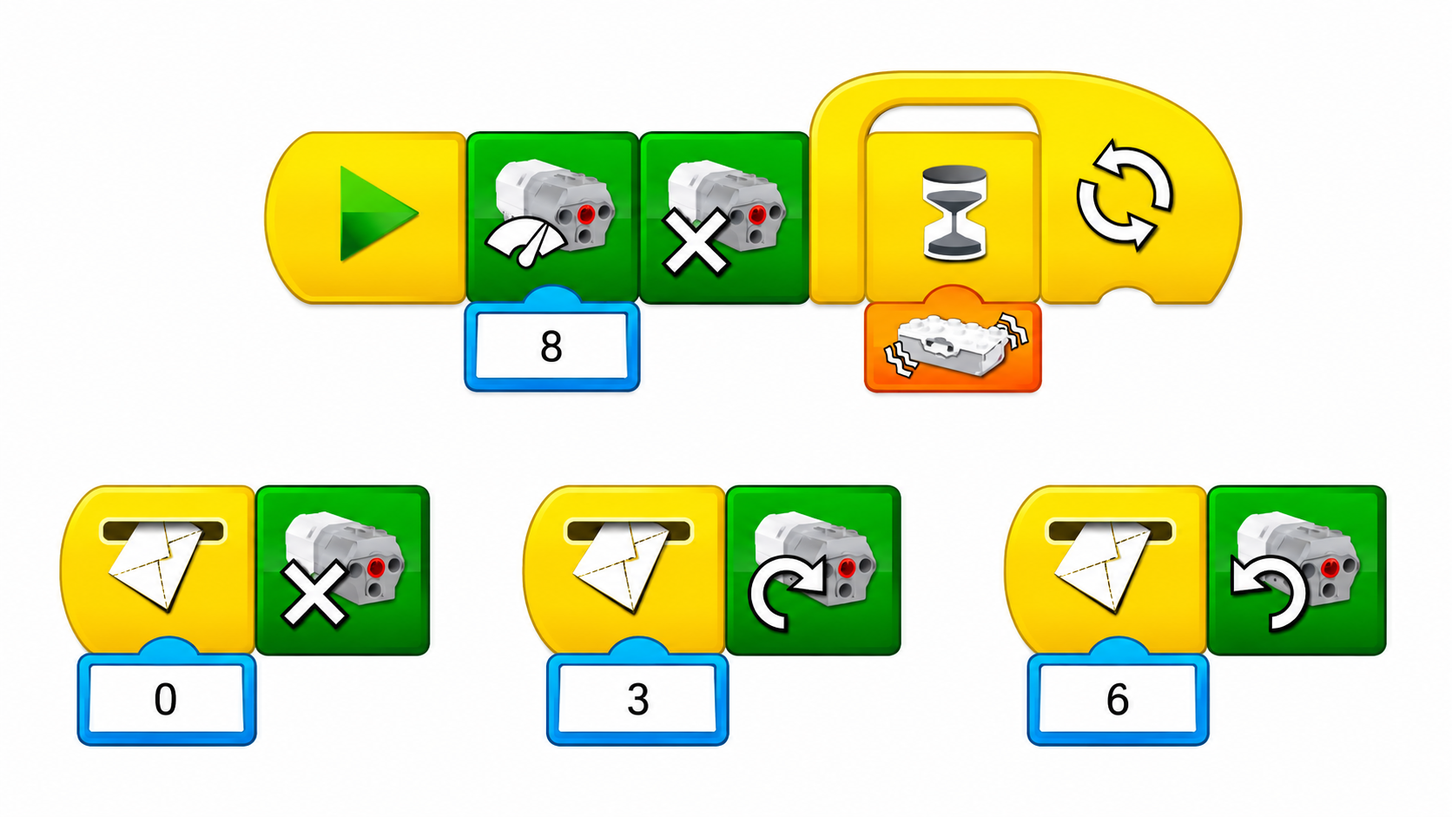
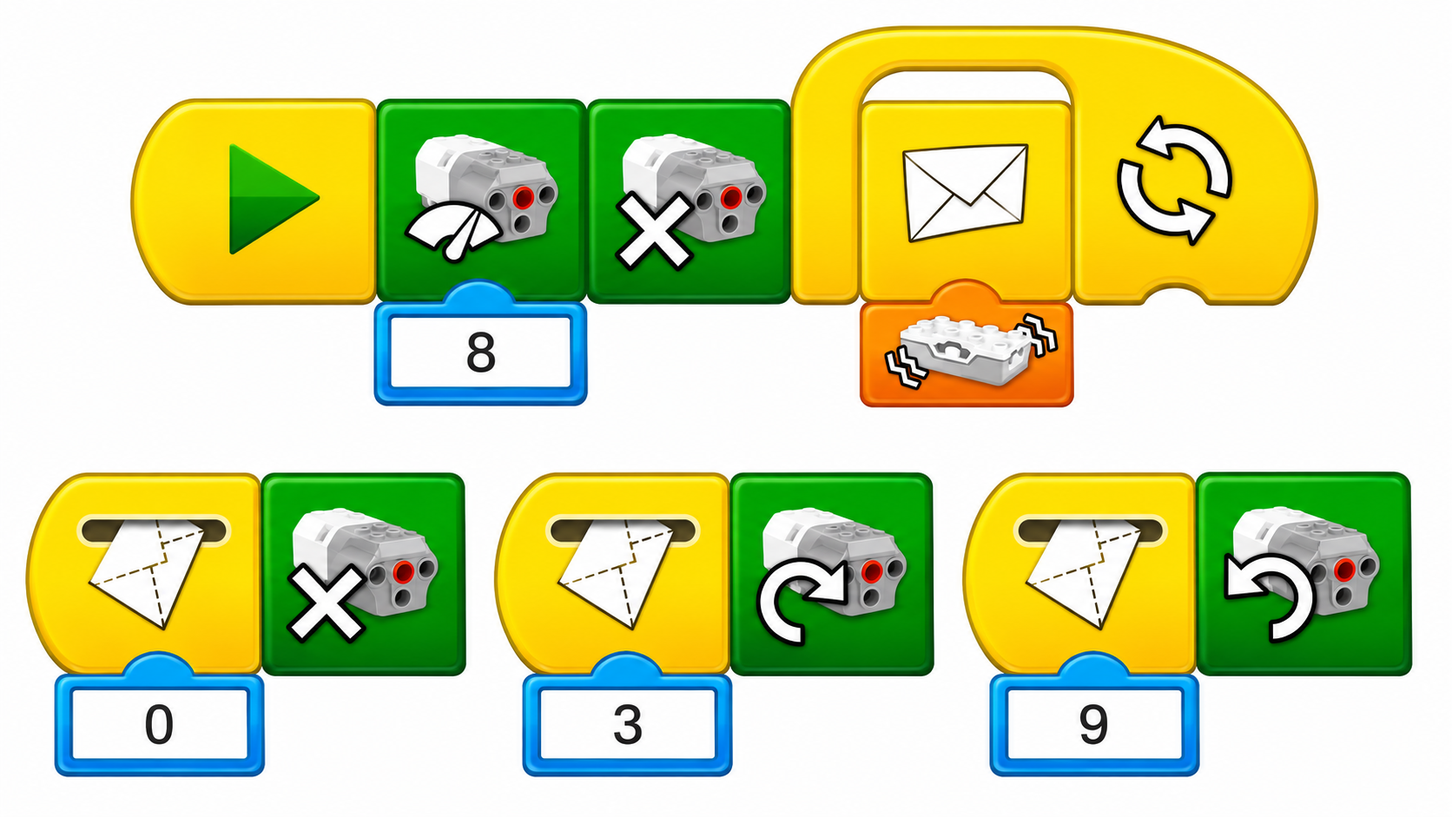
Add files via upload

diff --git a/workshops/2026-2027/11-forklift-2/quiz.html b/workshops/2026-2027/11-forklift-2/quiz.html
@@ -50,13 +50,13 @@ body.quiz-unified.scooter-quiz .head .mascot img{width:100%;height:100%;object-f
 <p class="lead">Αναγνώρισε τις εντολές που χρησιμοποιήσαμε για τον έλεγχο του ανυψωτικού μηχανήματος. Απάντησε σε <strong>10 ερωτήσεις</strong> με τέσσερις εικόνες επιλογών και κέρδισε τη συλλεκτική κάρτα <strong>LEVEL 2</strong>.</p></div>
 <div class="mascot"><img src="cover.webp" alt="Η κατασκευή Ανυψωτικού Μηχανήματος LEGO WeDo 2.0" width="1448" height="1086"></div></section>
 <details class="program"><summary>Δες το πραγματικό πρόγραμμα του Ανυψωτικού Μηχανήματος II</summary>
-<img id="actual-program" src="program.webp" alt="Πρόγραμμα ανυψωτικού μηχανήματος: ισχύς 8, σταμάτημα, αναμονή με αισθητήρα, επανάληψη και μηνύματα 0, 3 και 6"></details>
+<img id="actual-program" src="program.webp?v=20261125-msg9" alt="Πρόγραμμα ανυψωτικού μηχανήματος: ισχύς 8, σταμάτημα, επανάληψη με αποστολή μηνύματος από αισθητήρα κλίσης και μηνύματα 0, 3 και 9"></details>
 <section id="quiz" class="panel" aria-live="polite"><div id="quiz-content"></div></section></main>
 <footer class="footer wrap">EVAGELAK EDU LAB · Εκπαιδευτικό quiz LEGO WeDo 2.0</footer>
 <script src="../../../assets/js/badges.js?v=tier-score-1"></script>
 <script>
 const IMAGES={"start":"quiz-assets/official/start.webp","motor_power":"quiz-assets/official/motor_power.webp","motor_stop":"quiz-assets/official/motor_stop.webp","repeat":"quiz-assets/official/repeat.webp","wait":"quiz-assets/official/wait.webp","sensor_shake":"quiz-assets/official/sensor_shake.webp","sensor_left":"quiz-assets/official/sensor_left.webp","sensor_right":"quiz-assets/official/sensor_right.webp","start_message":"quiz-assets/official/start_message.webp","start_button":"quiz-assets/official/start_button.webp","send":"quiz-assets/official/send.webp","motor_left":"quiz-assets/official/motor_left.webp","motor_right":"quiz-assets/official/motor_right.webp","motor_time":"quiz-assets/official/motor_time.webp","sound":"quiz-assets/official/sound.webp","light":"quiz-assets/official/light.webp","tilt_level":"quiz-assets/official/tilt_level.webp"};
-const QUIZ=[{"kicker":"ΕΝΑΡΞΗ","question":"Ποιο τουβλάκι ξεκινά την κύρια ακολουθία του Ανυψωτικού Μηχανήματος II;","choices":[{"label":"Αναμονή","img":"wait"},{"label":"Ξεκίνημα","img":"start"},{"label":"Ξεκίνημα με μήνυμα","img":"start_message"},{"label":"Επανάληψη","img":"repeat"}],"correct":1,"explain":"Το «Ξεκίνημα» με το πράσινο τρίγωνο ενεργοποιεί την κύρια ακολουθία.","n":1},{"kicker":"ΙΣΧΥΣ ΚΙΝΗΤΗΡΑ","question":"Ποιο τουβλάκι χρησιμοποιούμε για να ρυθμίσουμε την ισχύ του κινητήρα στο 8;","choices":[{"label":"Κίνηση για ορισμένο χρόνο","img":"motor_time"},{"label":"Ισχύς κίνησης","img":"motor_power"},{"label":"Σταμάτημα","img":"motor_stop"},{"label":"Κίνηση προς τα δεξιά","img":"motor_right"}],"correct":1,"explain":"Η «Ισχύς κίνησης» ρυθμίζει την ένταση από 0 έως 10. Στο πρόγραμμα του δεύτερου κλαρκ η τιμή είναι 8.","n":2},{"kicker":"ΑΡΧΙΚΗ ΑΚΟΛΟΥΘΙΑ","question":"Ποια εντολή ακολουθεί αμέσως μετά τη ρύθμιση της ισχύος 8 στην επάνω ακολουθία;","choices":[{"label":"Παίξε ήχο","img":"sound"},{"label":"Κίνηση προς τα αριστερά","img":"motor_left"},{"label":"Σταμάτημα","img":"motor_stop"},{"label":"Αναμονή","img":"wait"}],"correct":2,"explain":"Μετά τη ρύθμιση της ισχύος 8 εμφανίζεται το πράσινο τουβλάκι «Σταμάτημα».","n":3},{"kicker":"ΣΥΝΕΧΗΣ ΕΛΕΓΧΟΣ","question":"Ποιο τουβλάκι οργανώνει την επανάληψη της αναμονής στην επάνω ακολουθία;","choices":[{"label":"Ξεκίνημα","img":"start"},{"label":"Επανάληψη","img":"repeat"},{"label":"Αποστολή μηνύματος","img":"send"},{"label":"Ξεκίνημα με μήνυμα","img":"start_message"}],"correct":1,"explain":"Το κίτρινο τουβλάκι «Επανάληψη» εκτελεί ξανά τις εντολές που περιλαμβάνει.","n":4},{"kicker":"ΑΝΑΜΟΝΗ","question":"Ποιο κίτρινο τουβλάκι χρησιμοποιείται για να περιμένει το πρόγραμμα μια συνθήκη από αισθητήρα;","choices":[{"label":"Αναμονή","img":"wait"},{"label":"Ξεκίνημα με πάτημα κουμπιού","img":"start_button"},{"label":"Επανάληψη","img":"repeat"},{"label":"Ξεκίνημα","img":"start"}],"correct":0,"explain":"Η «Αναμονή» μπορεί να περιμένει μια τιμή ή ένα συμβάν από συνδεδεμένο αισθητήρα.","n":5},{"kicker":"ΑΙΣΘΗΤΗΡΑΣ ΚΛΙΣΗΣ","question":"Ποια πορτοκαλί εικόνα αντιστοιχεί στο σήμα κίνησης πάνω-κάτω που φαίνεται στην αναμονή του προγράμματος;","choices":[{"label":"Κίνηση προς άλλη κατεύθυνση","img":"sensor_left"},{"label":"Κίνηση πάνω-κάτω","img":"sensor_shake"},{"label":"Οριζόντια θέση","img":"tilt_level"},{"label":"Κίνηση προς διαφορετική κατεύθυνση","img":"sensor_right"}],"correct":1,"explain":"Το πορτοκαλί τουβλάκι με τις κυματιστές γραμμές δείχνει κίνηση πάνω-κάτω του αισθητήρα κλίσης.","n":6},{"kicker":"ΜΗΝΥΜΑΤΑ","question":"Με ποιο τουβλάκι αρχίζει κάθε μία από τις τρεις κάτω ακολουθίες με μηνύματα 0, 3 και 6;","choices":[{"label":"Αποστολή μηνύματος","img":"send"},{"label":"Ξεκίνημα","img":"start"},{"label":"Ξεκίνημα με μήνυμα","img":"start_message"},{"label":"Ξεκίνημα με πάτημα κουμπιού","img":"start_button"}],"correct":2,"explain":"Το «Ξεκίνημα με μήνυμα» περιμένει το αντίστοιχο μήνυμα πριν εκτελέσει την εντολή που ακολουθεί.","n":7},{"kicker":"ΜΗΝΥΜΑ 0","question":"Ποια εντολή ενεργοποιείται στο πρόγραμμα όταν φτάσει το μήνυμα 0;","choices":[{"label":"Ισχύς κίνησης","img":"motor_power"},{"label":"Κίνηση προς τα αριστερά","img":"motor_left"},{"label":"Σταμάτημα","img":"motor_stop"},{"label":"Κίνηση προς τα δεξιά","img":"motor_right"}],"correct":2,"explain":"Στην κάτω αριστερή ακολουθία το μήνυμα 0 οδηγεί στην εντολή «Σταμάτημα».","n":8},{"kicker":"ΜΗΝΥΜΑ 3","question":"Ποια εντολή ακολουθεί το μήνυμα 3 στη μεσαία κάτω ακολουθία;","choices":[{"label":"Κίνηση προς τα αριστερά","img":"motor_left"},{"label":"Σταμάτημα","img":"motor_stop"},{"label":"Κίνηση προς τα δεξιά","img":"motor_right"},{"label":"Κίνηση για ορισμένο χρόνο","img":"motor_time"}],"correct":2,"explain":"Στη μεσαία κάτω ακολουθία, μετά το μήνυμα 3, ο κινητήρας παίρνει την κατεύθυνση που δείχνει το τουβλάκι κίνησης προς τα δεξιά.","n":9},{"kicker":"ΜΗΝΥΜΑ 6","question":"Ποια εντολή ακολουθεί το μήνυμα 6 στη δεξιά κάτω ακολουθία;","choices":[{"label":"Κίνηση προς τα αριστερά","img":"motor_left"},{"label":"Ισχύς κίνησης","img":"motor_power"},{"label":"Σταμάτημα","img":"motor_stop"},{"label":"Κίνηση προς τα δεξιά","img":"motor_right"}],"correct":0,"explain":"Στη δεξιά κάτω ακολουθία, μετά το μήνυμα 6, η φορά του κινητήρα αντιστρέφεται με την εντολή κίνησης προς τα αριστερά.","n":10}];
+const QUIZ=[{"kicker":"ΕΝΑΡΞΗ","question":"Ποιο τουβλάκι ξεκινά την κύρια ακολουθία του Ανυψωτικού Μηχανήματος II;","choices":[{"label":"Αναμονή","img":"wait"},{"label":"Ξεκίνημα","img":"start"},{"label":"Ξεκίνημα με μήνυμα","img":"start_message"},{"label":"Επανάληψη","img":"repeat"}],"correct":1,"explain":"Το «Ξεκίνημα» με το πράσινο τρίγωνο ενεργοποιεί την κύρια ακολουθία.","n":1},{"kicker":"ΙΣΧΥΣ ΚΙΝΗΤΗΡΑ","question":"Ποιο τουβλάκι χρησιμοποιούμε για να ρυθμίσουμε την ισχύ του κινητήρα στο 8;","choices":[{"label":"Κίνηση για ορισμένο χρόνο","img":"motor_time"},{"label":"Ισχύς κίνησης","img":"motor_power"},{"label":"Σταμάτημα","img":"motor_stop"},{"label":"Κίνηση προς τα δεξιά","img":"motor_right"}],"correct":1,"explain":"Η «Ισχύς κίνησης» ρυθμίζει την ένταση από 0 έως 10. Στο πρόγραμμα του δεύτερου κλαρκ η τιμή είναι 8.","n":2},{"kicker":"ΑΡΧΙΚΗ ΑΚΟΛΟΥΘΙΑ","question":"Ποια εντολή ακολουθεί αμέσως μετά τη ρύθμιση της ισχύος 8 στην επάνω ακολουθία;","choices":[{"label":"Παίξε ήχο","img":"sound"},{"label":"Κίνηση προς τα αριστερά","img":"motor_left"},{"label":"Σταμάτημα","img":"motor_stop"},{"label":"Αναμονή","img":"wait"}],"correct":2,"explain":"Μετά τη ρύθμιση της ισχύος 8 εμφανίζεται το πράσινο τουβλάκι «Σταμάτημα».","n":3},{"kicker":"ΣΥΝΕΧΗΣ ΕΛΕΓΧΟΣ","question":"Ποιο κίτρινο τουβλάκι επαναλαμβάνει την αποστολή μηνύματος από τον αισθητήρα κλίσης;","choices":[{"label":"Ξεκίνημα","img":"start"},{"label":"Επανάληψη","img":"repeat"},{"label":"Αποστολή μηνύματος","img":"send"},{"label":"Ξεκίνημα με μήνυμα","img":"start_message"}],"correct":1,"explain":"Η «Επανάληψη» εκτελεί συνεχώς το τουβλάκι «Αποστολή μηνύματος» που βρίσκεται μέσα της.","n":4},{"kicker":"ΑΠΟΣΤΟΛΗ ΜΗΝΥΜΑΤΟΣ","question":"Ποιο κίτρινο τουβλάκι βρίσκεται μέσα στην «Επανάληψη» και στέλνει δεδομένα από τον αισθητήρα κλίσης;","choices":[{"label":"Αναμονή","img":"wait"},{"label":"Ξεκίνημα με μήνυμα","img":"start_message"},{"label":"Αποστολή μηνύματος","img":"send"},{"label":"Ξεκίνημα","img":"start"}],"correct":2,"explain":"Το τουβλάκι με τον φάκελο είναι η «Αποστολή μηνύματος». Λαμβάνει ως είσοδο το σήμα του αισθητήρα κλίσης και το στέλνει ως μήνυμα.","n":5},{"kicker":"ΑΙΣΘΗΤΗΡΑΣ ΚΛΙΣΗΣ","question":"Ποιο πορτοκαλί τουβλάκι είναι συνδεδεμένο με την «Αποστολή μηνύματος» μέσα στην επανάληψη;","choices":[{"label":"Κίνηση προς άλλη κατεύθυνση","img":"sensor_left"},{"label":"Κίνηση πάνω-κάτω","img":"sensor_shake"},{"label":"Οριζόντια θέση","img":"tilt_level"},{"label":"Κίνηση προς διαφορετική κατεύθυνση","img":"sensor_right"}],"correct":1,"explain":"Το πορτοκαλί τουβλάκι «Κίνηση πάνω-κάτω» διαβάζει το αντίστοιχο σήμα του αισθητήρα κλίσης και το δίνει στην «Αποστολή μηνύματος».","n":6},{"kicker":"ΜΗΝΥΜΑΤΑ","question":"Με ποιο τουβλάκι ξεκινά καθεμία από τις τρεις κάτω ακολουθίες με μηνύματα 0, 3 και 9;","choices":[{"label":"Αποστολή μηνύματος","img":"send"},{"label":"Ξεκίνημα","img":"start"},{"label":"Ξεκίνημα με μήνυμα","img":"start_message"},{"label":"Ξεκίνημα με πάτημα κουμπιού","img":"start_button"}],"correct":2,"explain":"Το «Ξεκίνημα με μήνυμα» περιμένει το αντίστοιχο μήνυμα πριν εκτελέσει την εντολή που ακολουθεί.","n":7},{"kicker":"ΜΗΝΥΜΑ 0","question":"Ποια εντολή ενεργοποιείται στο πρόγραμμα όταν φτάσει το μήνυμα 0;","choices":[{"label":"Ισχύς κίνησης","img":"motor_power"},{"label":"Κίνηση προς τα αριστερά","img":"motor_left"},{"label":"Σταμάτημα","img":"motor_stop"},{"label":"Κίνηση προς τα δεξιά","img":"motor_right"}],"correct":2,"explain":"Στην κάτω αριστερή ακολουθία το μήνυμα 0 οδηγεί στην εντολή «Σταμάτημα».","n":8},{"kicker":"ΜΗΝΥΜΑ 3","question":"Ποια εντολή ακολουθεί το μήνυμα 3 στη μεσαία κάτω ακολουθία;","choices":[{"label":"Κίνηση προς τα αριστερά","img":"motor_left"},{"label":"Σταμάτημα","img":"motor_stop"},{"label":"Κίνηση προς τα δεξιά","img":"motor_right"},{"label":"Κίνηση για ορισμένο χρόνο","img":"motor_time"}],"correct":2,"explain":"Στη μεσαία κάτω ακολουθία, μετά το μήνυμα 3, ο κινητήρας παίρνει την κατεύθυνση που δείχνει το τουβλάκι κίνησης προς τα δεξιά.","n":9},{"kicker":"ΜΗΝΥΜΑ 9","question":"Ποια εντολή ακολουθεί το μήνυμα 9 στη δεξιά κάτω ακολουθία;","choices":[{"label":"Κίνηση προς τα αριστερά","img":"motor_left"},{"label":"Ισχύς κίνησης","img":"motor_power"},{"label":"Σταμάτημα","img":"motor_stop"},{"label":"Κίνηση προς τα δεξιά","img":"motor_right"}],"correct":0,"explain":"Στη δεξιά κάτω ακολουθία, το μήνυμα 9 ενεργοποιεί το τουβλάκι «Κίνηση προς τα αριστερά».","n":10}];
 let index=0,selected=-1,score=0,finished=false;
 const root=document.getElementById('quiz-content');
 function elem(tag,cls,text){const x=document.createElement(tag);if(cls)x.className=cls;if(text!==undefined)x.textContent=text;return x}

diff --git a/workshops/2026-2027/10-forklift/quiz.html b/workshops/2026-2027/10-forklift/quiz.html
@@ -50,13 +50,13 @@ body.quiz-unified.scooter-quiz .head .mascot img{width:100%;height:100%;object-f
 <p class="lead">Αναγνώρισε τις εντολές που χρησιμοποιήσαμε για τον έλεγχο του ανυψωτικού μηχανήματος. Απάντησε σε <strong>10 ερωτήσεις</strong> με τέσσερις εικόνες επιλογών και κέρδισε τη συλλεκτική κάρτα <strong>LEVEL 2</strong>.</p></div>
 <div class="mascot"><img src="cover.webp" alt="Η κατασκευή Ανυψωτικού Μηχανήματος LEGO WeDo 2.0" width="1448" height="1086"></div></section>
 <details class="program"><summary>Δες το πραγματικό πρόγραμμα του Ανυψωτικό Μηχάνημα</summary>
-<img id="actual-program" src="program.webp" alt="Πρόγραμμα ανυψωτικού μηχανήματος: ισχύς 8, σταμάτημα, αναμονή με αισθητήρα, επανάληψη και μηνύματα 0, 3 και 6"></details>
+<img id="actual-program" src="program.webp?v=20261125-msg9" alt="Πρόγραμμα ανυψωτικού μηχανήματος: ισχύς 8, σταμάτημα, επανάληψη με αποστολή μηνύματος από αισθητήρα κλίσης και μηνύματα 0, 3 και 9"></details>
 <section id="quiz" class="panel" aria-live="polite"><div id="quiz-content"></div></section></main>
 <footer class="footer wrap">EVAGELAK EDU LAB · Εκπαιδευτικό quiz LEGO WeDo 2.0</footer>
 <script src="../../../assets/js/badges.js?v=tier-score-1"></script>
 <script>
 const IMAGES={"start":"quiz-assets/official/start.webp","motor_power":"quiz-assets/official/motor_power.webp","motor_stop":"quiz-assets/official/motor_stop.webp","repeat":"quiz-assets/official/repeat.webp","wait":"quiz-assets/official/wait.webp","sensor_shake":"quiz-assets/official/sensor_shake.webp","sensor_left":"quiz-assets/official/sensor_left.webp","sensor_right":"quiz-assets/official/sensor_right.webp","start_message":"quiz-assets/official/start_message.webp","start_button":"quiz-assets/official/start_button.webp","send":"quiz-assets/official/send.webp","motor_left":"quiz-assets/official/motor_left.webp","motor_right":"quiz-assets/official/motor_right.webp","motor_time":"quiz-assets/official/motor_time.webp","sound":"quiz-assets/official/sound.webp","light":"quiz-assets/official/light.webp","tilt_level":"quiz-assets/official/tilt_level.webp"};
-const QUIZ=[{"kicker":"ΕΝΑΡΞΗ","question":"Ποιο τουβλάκι ξεκινά την κύρια ακολουθία του Ανυψωτικού Μηχανήματος;","choices":[{"label":"Αναμονή","img":"wait"},{"label":"Ξεκίνημα","img":"start"},{"label":"Ξεκίνημα με μήνυμα","img":"start_message"},{"label":"Επανάληψη","img":"repeat"}],"correct":1,"explain":"Το «Ξεκίνημα» με το πράσινο τρίγωνο ενεργοποιεί την κύρια ακολουθία.","n":1},{"kicker":"ΙΣΧΥΣ ΚΙΝΗΤΗΡΑ","question":"Ποιο τουβλάκι χρησιμοποιούμε για να ρυθμίσουμε την ισχύ του κινητήρα στο 8;","choices":[{"label":"Κίνηση για ορισμένο χρόνο","img":"motor_time"},{"label":"Ισχύς κίνησης","img":"motor_power"},{"label":"Σταμάτημα","img":"motor_stop"},{"label":"Κίνηση προς τα δεξιά","img":"motor_right"}],"correct":1,"explain":"Η «Ισχύς κίνησης» ρυθμίζει την ένταση από 0 έως 10. Στο πρόγραμμα του κλαρκ η τιμή είναι 8.","n":2},{"kicker":"ΑΡΧΙΚΗ ΑΚΟΛΟΥΘΙΑ","question":"Ποια εντολή ακολουθεί αμέσως μετά τη ρύθμιση της ισχύος 8 στην επάνω ακολουθία;","choices":[{"label":"Παίξε ήχο","img":"sound"},{"label":"Κίνηση προς τα αριστερά","img":"motor_left"},{"label":"Σταμάτημα","img":"motor_stop"},{"label":"Αναμονή","img":"wait"}],"correct":2,"explain":"Μετά τη ρύθμιση της ισχύος 8 εμφανίζεται το πράσινο τουβλάκι «Σταμάτημα».","n":3},{"kicker":"ΣΥΝΕΧΗΣ ΕΛΕΓΧΟΣ","question":"Ποιο τουβλάκι οργανώνει την επανάληψη της αναμονής στην επάνω ακολουθία;","choices":[{"label":"Ξεκίνημα","img":"start"},{"label":"Επανάληψη","img":"repeat"},{"label":"Αποστολή μηνύματος","img":"send"},{"label":"Ξεκίνημα με μήνυμα","img":"start_message"}],"correct":1,"explain":"Το κίτρινο τουβλάκι «Επανάληψη» εκτελεί ξανά τις εντολές που περιλαμβάνει.","n":4},{"kicker":"ΑΝΑΜΟΝΗ","question":"Ποιο κίτρινο τουβλάκι χρησιμοποιείται για να περιμένει το πρόγραμμα μια συνθήκη από αισθητήρα;","choices":[{"label":"Αναμονή","img":"wait"},{"label":"Ξεκίνημα με πάτημα κουμπιού","img":"start_button"},{"label":"Επανάληψη","img":"repeat"},{"label":"Ξεκίνημα","img":"start"}],"correct":0,"explain":"Η «Αναμονή» μπορεί να περιμένει μια τιμή ή ένα συμβάν από συνδεδεμένο αισθητήρα.","n":5},{"kicker":"ΑΙΣΘΗΤΗΡΑΣ ΚΛΙΣΗΣ","question":"Ποια πορτοκαλί εικόνα αντιστοιχεί στο σήμα κίνησης πάνω-κάτω που φαίνεται στην αναμονή του προγράμματος;","choices":[{"label":"Κίνηση προς άλλη κατεύθυνση","img":"sensor_left"},{"label":"Κίνηση πάνω-κάτω","img":"sensor_shake"},{"label":"Οριζόντια θέση","img":"tilt_level"},{"label":"Κίνηση προς διαφορετική κατεύθυνση","img":"sensor_right"}],"correct":1,"explain":"Το πορτοκαλί τουβλάκι με τις κυματιστές γραμμές δείχνει κίνηση πάνω-κάτω του αισθητήρα κλίσης.","n":6},{"kicker":"ΜΗΝΥΜΑΤΑ","question":"Με ποιο τουβλάκι αρχίζει κάθε μία από τις τρεις κάτω ακολουθίες με μηνύματα 0, 3 και 6;","choices":[{"label":"Αποστολή μηνύματος","img":"send"},{"label":"Ξεκίνημα","img":"start"},{"label":"Ξεκίνημα με μήνυμα","img":"start_message"},{"label":"Ξεκίνημα με πάτημα κουμπιού","img":"start_button"}],"correct":2,"explain":"Το «Ξεκίνημα με μήνυμα» περιμένει το αντίστοιχο μήνυμα πριν εκτελέσει την εντολή που ακολουθεί.","n":7},{"kicker":"ΜΗΝΥΜΑ 0","question":"Ποια εντολή ενεργοποιείται στο πρόγραμμα όταν φτάσει το μήνυμα 0;","choices":[{"label":"Ισχύς κίνησης","img":"motor_power"},{"label":"Κίνηση προς τα αριστερά","img":"motor_left"},{"label":"Σταμάτημα","img":"motor_stop"},{"label":"Κίνηση προς τα δεξιά","img":"motor_right"}],"correct":2,"explain":"Στην κάτω αριστερή ακολουθία το μήνυμα 0 οδηγεί στην εντολή «Σταμάτημα».","n":8},{"kicker":"ΜΗΝΥΜΑ 3","question":"Ποια εντολή ακολουθεί το μήνυμα 3 στη μεσαία κάτω ακολουθία;","choices":[{"label":"Κίνηση προς τα αριστερά","img":"motor_left"},{"label":"Σταμάτημα","img":"motor_stop"},{"label":"Κίνηση προς τα δεξιά","img":"motor_right"},{"label":"Κίνηση για ορισμένο χρόνο","img":"motor_time"}],"correct":2,"explain":"Στη μεσαία κάτω ακολουθία, μετά το μήνυμα 3, ο κινητήρας παίρνει την κατεύθυνση που δείχνει το τουβλάκι κίνησης προς τα δεξιά.","n":9},{"kicker":"ΜΗΝΥΜΑ 6","question":"Ποια εντολή ακολουθεί το μήνυμα 6 στη δεξιά κάτω ακολουθία;","choices":[{"label":"Κίνηση προς τα αριστερά","img":"motor_left"},{"label":"Ισχύς κίνησης","img":"motor_power"},{"label":"Σταμάτημα","img":"motor_stop"},{"label":"Κίνηση προς τα δεξιά","img":"motor_right"}],"correct":0,"explain":"Στη δεξιά κάτω ακολουθία, μετά το μήνυμα 6, η φορά του κινητήρα αντιστρέφεται με την εντολή κίνησης προς τα αριστερά.","n":10}];
+const QUIZ=[{"kicker":"ΕΝΑΡΞΗ","question":"Ποιο τουβλάκι ξεκινά την κύρια ακολουθία του Ανυψωτικού Μηχανήματος;","choices":[{"label":"Αναμονή","img":"wait"},{"label":"Ξεκίνημα","img":"start"},{"label":"Ξεκίνημα με μήνυμα","img":"start_message"},{"label":"Επανάληψη","img":"repeat"}],"correct":1,"explain":"Το «Ξεκίνημα» με το πράσινο τρίγωνο ενεργοποιεί την κύρια ακολουθία.","n":1},{"kicker":"ΙΣΧΥΣ ΚΙΝΗΤΗΡΑ","question":"Ποιο τουβλάκι χρησιμοποιούμε για να ρυθμίσουμε την ισχύ του κινητήρα στο 8;","choices":[{"label":"Κίνηση για ορισμένο χρόνο","img":"motor_time"},{"label":"Ισχύς κίνησης","img":"motor_power"},{"label":"Σταμάτημα","img":"motor_stop"},{"label":"Κίνηση προς τα δεξιά","img":"motor_right"}],"correct":1,"explain":"Η «Ισχύς κίνησης» ρυθμίζει την ένταση από 0 έως 10. Στο πρόγραμμα του κλαρκ η τιμή είναι 8.","n":2},{"kicker":"ΑΡΧΙΚΗ ΑΚΟΛΟΥΘΙΑ","question":"Ποια εντολή ακολουθεί αμέσως μετά τη ρύθμιση της ισχύος 8 στην επάνω ακολουθία;","choices":[{"label":"Παίξε ήχο","img":"sound"},{"label":"Κίνηση προς τα αριστερά","img":"motor_left"},{"label":"Σταμάτημα","img":"motor_stop"},{"label":"Αναμονή","img":"wait"}],"correct":2,"explain":"Μετά τη ρύθμιση της ισχύος 8 εμφανίζεται το πράσινο τουβλάκι «Σταμάτημα».","n":3},{"kicker":"ΣΥΝΕΧΗΣ ΕΛΕΓΧΟΣ","question":"Ποιο κίτρινο τουβλάκι επαναλαμβάνει την αποστολή μηνύματος από τον αισθητήρα κλίσης;","choices":[{"label":"Ξεκίνημα","img":"start"},{"label":"Επανάληψη","img":"repeat"},{"label":"Αποστολή μηνύματος","img":"send"},{"label":"Ξεκίνημα με μήνυμα","img":"start_message"}],"correct":1,"explain":"Η «Επανάληψη» εκτελεί συνεχώς το τουβλάκι «Αποστολή μηνύματος» που βρίσκεται μέσα της.","n":4},{"kicker":"ΑΠΟΣΤΟΛΗ ΜΗΝΥΜΑΤΟΣ","question":"Ποιο κίτρινο τουβλάκι βρίσκεται μέσα στην «Επανάληψη» και στέλνει δεδομένα από τον αισθητήρα κλίσης;","choices":[{"label":"Αναμονή","img":"wait"},{"label":"Ξεκίνημα με μήνυμα","img":"start_message"},{"label":"Αποστολή μηνύματος","img":"send"},{"label":"Ξεκίνημα","img":"start"}],"correct":2,"explain":"Το τουβλάκι με τον φάκελο είναι η «Αποστολή μηνύματος». Λαμβάνει ως είσοδο το σήμα του αισθητήρα κλίσης και το στέλνει ως μήνυμα.","n":5},{"kicker":"ΑΙΣΘΗΤΗΡΑΣ ΚΛΙΣΗΣ","question":"Ποιο πορτοκαλί τουβλάκι είναι συνδεδεμένο με την «Αποστολή μηνύματος» μέσα στην επανάληψη;","choices":[{"label":"Κίνηση προς άλλη κατεύθυνση","img":"sensor_left"},{"label":"Κίνηση πάνω-κάτω","img":"sensor_shake"},{"label":"Οριζόντια θέση","img":"tilt_level"},{"label":"Κίνηση προς διαφορετική κατεύθυνση","img":"sensor_right"}],"correct":1,"explain":"Το πορτοκαλί τουβλάκι «Κίνηση πάνω-κάτω» διαβάζει το αντίστοιχο σήμα του αισθητήρα κλίσης και το δίνει στην «Αποστολή μηνύματος».","n":6},{"kicker":"ΜΗΝΥΜΑΤΑ","question":"Με ποιο τουβλάκι ξεκινά καθεμία από τις τρεις κάτω ακολουθίες με μηνύματα 0, 3 και 9;","choices":[{"label":"Αποστολή μηνύματος","img":"send"},{"label":"Ξεκίνημα","img":"start"},{"label":"Ξεκίνημα με μήνυμα","img":"start_message"},{"label":"Ξεκίνημα με πάτημα κουμπιού","img":"start_button"}],"correct":2,"explain":"Το «Ξεκίνημα με μήνυμα» περιμένει το αντίστοιχο μήνυμα πριν εκτελέσει την εντολή που ακολουθεί.","n":7},{"kicker":"ΜΗΝΥΜΑ 0","question":"Ποια εντολή ενεργοποιείται στο πρόγραμμα όταν φτάσει το μήνυμα 0;","choices":[{"label":"Ισχύς κίνησης","img":"motor_power"},{"label":"Κίνηση προς τα αριστερά","img":"motor_left"},{"label":"Σταμάτημα","img":"motor_stop"},{"label":"Κίνηση προς τα δεξιά","img":"motor_right"}],"correct":2,"explain":"Στην κάτω αριστερή ακολουθία το μήνυμα 0 οδηγεί στην εντολή «Σταμάτημα».","n":8},{"kicker":"ΜΗΝΥΜΑ 3","question":"Ποια εντολή ακολουθεί το μήνυμα 3 στη μεσαία κάτω ακολουθία;","choices":[{"label":"Κίνηση προς τα αριστερά","img":"motor_left"},{"label":"Σταμάτημα","img":"motor_stop"},{"label":"Κίνηση προς τα δεξιά","img":"motor_right"},{"label":"Κίνηση για ορισμένο χρόνο","img":"motor_time"}],"correct":2,"explain":"Στη μεσαία κάτω ακολουθία, μετά το μήνυμα 3, ο κινητήρας παίρνει την κατεύθυνση που δείχνει το τουβλάκι κίνησης προς τα δεξιά.","n":9},{"kicker":"ΜΗΝΥΜΑ 9","question":"Ποια εντολή ακολουθεί το μήνυμα 9 στη δεξιά κάτω ακολουθία;","choices":[{"label":"Κίνηση προς τα αριστερά","img":"motor_left"},{"label":"Ισχύς κίνησης","img":"motor_power"},{"label":"Σταμάτημα","img":"motor_stop"},{"label":"Κίνηση προς τα δεξιά","img":"motor_right"}],"correct":0,"explain":"Στη δεξιά κάτω ακολουθία, το μήνυμα 9 ενεργοποιεί το τουβλάκι «Κίνηση προς τα αριστερά».","n":10}];
 let index=0,selected=-1,score=0,finished=false;
 const root=document.getElementById('quiz-content');
 function elem(tag,cls,text){const x=document.createElement(tag);if(cls)x.className=cls;if(text!==undefined)x.textContent=text;return x}

diff --git a/workshops/2026-2027/10-forklift/index.html b/workshops/2026-2027/10-forklift/index.html
@@ -92,8 +92,8 @@ body[data-equipment~="wedo2"] .ws-kicker::before{background:#20B35D;box-shadow:0
 <main class="ws-page">
 <div class="ws-heading"><div class="ws-kicker">LEGO WeDo 2.0 · 2026–2027</div><h1>Ανυψωτικό Μηχάνημα</h1><p class="ws-intro">Κατασκευάζουμε ένα ανυψωτικό μηχάνημα (κλαρκ) με LEGO WeDo 2.0 και γνωρίζουμε πώς ο κινητήρας, τα γρανάζια, οι εντολές μηνυμάτων και η επανάληψη συνεργάζονται για τον έλεγχο ενός μηχανισμού ανύψωσης.</p></div>
 <figure class="ws-stage"><img alt="Ανυψωτικό Μηχάνημα LEGO WeDo 2.0: περόνες, κατακόρυφος οδηγός, τέσσερις τροχοί, γρανάζια και φιγούρα οδηγού" class="ws-photo" loading="eager" src="cover.webp"/><figcaption><span>Η ΚΑΤΑΣΚΕΥΗ</span><span>LEGO WeDo 2.0</span></figcaption></figure>
-<div class="ws-grid"><section class="ws-card ws-mission"><div class="ws-section-intro"><span aria-hidden="true" class="ws-icon"><svg viewbox="0 0 24 24"><path d="M5 21V4m0 1c3-2 5 2 9 0s6 0 6 0v11c-4-2-6 2-10 0s-5 0-5 0"></path></svg></span><h2>Η αποστολή μας</h2></div><p>Η αποστολή μας είναι να κατασκευάσουμε ένα μικρό ανυψωτικό όχημα με τέσσερις τροχούς και περόνες για τη μεταφορά αντικειμένων. Παρατηρούμε πώς το πλαίσιο, ο κατακόρυφος οδηγός, ο οδοντωτός μηχανισμός και ο ηλεκτρικός κινητήρας συνδυάζονται σε μια πραγματική μηχανική εφαρμογή. Στον προγραμματισμό ρυθμίζουμε την ισχύ του κινητήρα στο 8, αναγνωρίζουμε τη στάση και την επανάληψη και δοκιμάζουμε την ανταπόκριση σε εντολές που ξεκινούν με διαφορετικά μηνύματα. Τα μηνύματα 0, 3 και 6 ενεργοποιούν αντίστοιχα το σταμάτημα και τις δύο αντίθετες κατευθύνσεις περιστροφής. Δοκιμάζουμε τον μηχανισμό με προσοχή και εξηγούμε πώς οι αλλαγές στη φορά του κινητήρα επηρεάζουν την κίνηση των περονών.</p></section><section class="ws-card"><div class="ws-section-intro"><span aria-hidden="true" class="ws-icon"><svg viewbox="0 0 24 24"><circle cx="12" cy="12" r="9"></circle><circle cx="12" cy="12" r="5"></circle><circle cx="12" cy="12" r="1"></circle></svg></span><h2>Τι μάθαμε</h2></div><ul><li><span>Αναγνωρίσαμε τη χρησιμότητα ενός <strong>ανυψωτικού μηχανήματος</strong> για τη μεταφορά φορτίων.</span></li><li><span>Κατασκευάσαμε τροχοφόρο πλαίσιο, περόνες και έναν <strong>κατακόρυφο μηχανισμό</strong> με γρανάζια.</span></li><li><span>Εξερευνήσαμε πώς ο <strong>κινητήρας</strong> δίνει κίνηση στον μηχανισμό ανύψωσης.</span></li><li><span>Ρυθμίσαμε την <strong>ισχύ κίνησης στο 8</strong> και αναγνωρίσαμε την εντολή «Σταμάτημα».</span></li><li><span>Χρησιμοποιήσαμε την εντολή <strong>«Επανάληψη»</strong> μαζί με αναμονή σήματος από αισθητήρα.</span></li><li><span>Μάθαμε πώς λειτουργεί το <strong>«Ξεκίνημα με μήνυμα»</strong> και πώς ενεργοποιεί διαφορετικές ακολουθίες.</span></li><li><span>Συνδέσαμε το <strong>μήνυμα 0</strong> με το σταμάτημα του κινητήρα.</span></li><li><span>Συγκρίναμε τα <strong>μηνύματα 3 και 6</strong>, που ενεργοποιούν αντίθετες κατευθύνσεις περιστροφής.</span></li></ul></section></div>
-<section aria-labelledby="ws-program-title" class="ws-panel"><div class="ws-section-intro"><span aria-hidden="true" class="ws-icon"><svg viewbox="0 0 24 24"><rect height="16" rx="2" width="18" x="3" y="4"></rect><path d="m9 9-3 3 3 3m6-6 3 3-3 3"></path></svg></span><h2 id="ws-program-title">Προγραμματισμός</h2></div><p class="ws-lead">Το αρχικό πρόγραμμα ξεκινά με το «Ξεκίνημα», ορίζει <strong>ισχύ 8</strong> και δίνει εντολή «Σταμάτημα». Σε βρόχο «Επανάληψη» εμφανίζεται εντολή αναμονής με είσοδο από αισθητήρα. Παράλληλα υπάρχουν <strong>τρεις ξεχωριστές ακολουθίες</strong> που ενεργοποιούνται με τα μηνύματα <strong>0, 3 και 6</strong>: σταμάτημα, κίνηση προς τη μία φορά και κίνηση προς την αντίθετη, αντίστοιχα.</p><div class="ws-program-area"><div class="ws-program-label"><i aria-hidden="true"></i> LEGO WeDo 2.0 · ΠΡΟΓΡΑΜΜΑ</div><a aria-label="Προβολή του προγράμματος σε μεγάλο μέγεθος" href="program.webp" rel="noopener noreferrer" target="_blank"><img alt="Πραγματικές εντολές LEGO WeDo 2.0 του κλαρκ: ισχύς 8, σταμάτημα, αναμονή, επανάληψη και τρεις ακολουθίες με μηνύματα 0, 3 και 6" class="ws-program" height="941" loading="eager" src="program.webp" width="1672"/></a></div><a class="ws-program-link" href="program.webp" rel="noopener noreferrer" target="_blank"><svg aria-hidden="true" fill="none" height="18" stroke="currentColor" stroke-width="1.5" viewbox="0 0 20 20" width="18"><circle cx="9" cy="9" r="5"></circle><path d="m13 13 4 4M6 9h6M9 6v6"></path></svg>Μεγέθυνση προγράμματος ↗</a></section>
+<div class="ws-grid"><section class="ws-card ws-mission"><div class="ws-section-intro"><span aria-hidden="true" class="ws-icon"><svg viewbox="0 0 24 24"><path d="M5 21V4m0 1c3-2 5 2 9 0s6 0 6 0v11c-4-2-6 2-10 0s-5 0-5 0"></path></svg></span><h2>Η αποστολή μας</h2></div><p>Η αποστολή μας είναι να κατασκευάσουμε ένα μικρό ανυψωτικό όχημα με τέσσερις τροχούς και περόνες για τη μεταφορά αντικειμένων. Παρατηρούμε πώς το πλαίσιο, ο κατακόρυφος οδηγός, ο οδοντωτός μηχανισμός και ο ηλεκτρικός κινητήρας συνδυάζονται σε μια πραγματική μηχανική εφαρμογή. Στον προγραμματισμό ρυθμίζουμε την ισχύ του κινητήρα στο 8, αναγνωρίζουμε τη στάση και την επανάληψη και δοκιμάζουμε την ανταπόκριση σε εντολές που ξεκινούν με διαφορετικά μηνύματα. Τα μηνύματα 0, 3 και 9 ενεργοποιούν αντίστοιχα το σταμάτημα και τις δύο αντίθετες κατευθύνσεις περιστροφής. Δοκιμάζουμε τον μηχανισμό με προσοχή και εξηγούμε πώς οι αλλαγές στη φορά του κινητήρα επηρεάζουν την κίνηση των περονών.</p></section><section class="ws-card"><div class="ws-section-intro"><span aria-hidden="true" class="ws-icon"><svg viewbox="0 0 24 24"><circle cx="12" cy="12" r="9"></circle><circle cx="12" cy="12" r="5"></circle><circle cx="12" cy="12" r="1"></circle></svg></span><h2>Τι μάθαμε</h2></div><ul><li><span>Αναγνωρίσαμε τη χρησιμότητα ενός <strong>ανυψωτικού μηχανήματος</strong> για τη μεταφορά φορτίων.</span></li><li><span>Κατασκευάσαμε τροχοφόρο πλαίσιο, περόνες και έναν <strong>κατακόρυφο μηχανισμό</strong> με γρανάζια.</span></li><li><span>Εξερευνήσαμε πώς ο <strong>κινητήρας</strong> δίνει κίνηση στον μηχανισμό ανύψωσης.</span></li><li><span>Ρυθμίσαμε την <strong>ισχύ κίνησης στο 8</strong> και αναγνωρίσαμε την εντολή «Σταμάτημα».</span></li><li><span>Χρησιμοποιήσαμε την <strong>«Επανάληψη»</strong> και την <strong>«Αποστολή μηνύματος»</strong> με δεδομένα από τον αισθητήρα κλίσης.</span></li><li><span>Μάθαμε πώς λειτουργεί το <strong>«Ξεκίνημα με μήνυμα»</strong> και πώς ενεργοποιεί διαφορετικές ακολουθίες.</span></li><li><span>Συνδέσαμε το <strong>μήνυμα 0</strong> με το σταμάτημα του κινητήρα.</span></li><li><span>Συγκρίναμε τα <strong>μηνύματα 3 και 9</strong>, που ενεργοποιούν αντίθετες κατευθύνσεις περιστροφής.</span></li></ul></section></div>
+<section aria-labelledby="ws-program-title" class="ws-panel"><div class="ws-section-intro"><span aria-hidden="true" class="ws-icon"><svg viewbox="0 0 24 24"><rect height="16" rx="2" width="18" x="3" y="4"></rect><path d="m9 9-3 3 3 3m6-6 3 3-3 3"></path></svg></span><h2 id="ws-program-title">Προγραμματισμός</h2></div><p class="ws-lead">Το αρχικό πρόγραμμα ξεκινά με το «Ξεκίνημα», ορίζει <strong>ισχύ 8</strong> και δίνει εντολή «Σταμάτημα». Μέσα στην «Επανάληψη» βρίσκεται η «Αποστολή μηνύματος», που χρησιμοποιεί την είσοδο «Κίνηση πάνω-κάτω» του αισθητήρα κλίσης. Παράλληλα υπάρχουν <strong>τρεις ξεχωριστές ακολουθίες</strong> που ενεργοποιούνται με τα μηνύματα <strong>0, 3 και 9</strong>: σταμάτημα, κίνηση προς τη μία φορά και κίνηση προς την αντίθετη, αντίστοιχα.</p><div class="ws-program-area"><div class="ws-program-label"><i aria-hidden="true"></i> LEGO WeDo 2.0 · ΠΡΟΓΡΑΜΜΑ</div><a aria-label="Προβολή του προγράμματος σε μεγάλο μέγεθος" href="program.webp?v=20261125-msg9" rel="noopener noreferrer" target="_blank"><img alt="Πραγματικές εντολές LEGO WeDo 2.0 του κλαρκ: ισχύς 8, σταμάτημα, επανάληψη με αποστολή μηνύματος από αισθητήρα κλίσης και τρεις ακολουθίες με μηνύματα 0, 3 και 9" class="ws-program" height="941" loading="eager" src="program.webp?v=20261125-msg9" width="1672"/></a></div><a class="ws-program-link" href="program.webp?v=20261125-msg9" rel="noopener noreferrer" target="_blank"><svg aria-hidden="true" fill="none" height="18" stroke="currentColor" stroke-width="1.5" viewbox="0 0 20 20" width="18"><circle cx="9" cy="9" r="5"></circle><path d="m13 13 4 4M6 9h6M9 6v6"></path></svg>Μεγέθυνση προγράμματος ↗</a></section>
 <section aria-labelledby="ws-materials-title" class="ws-panel ws-materials"><div class="ws-section-intro"><span aria-hidden="true" class="ws-icon"><svg viewbox="0 0 24 24"><path d="M3 7a2 2 0 0 1 2-2h5l2 2h7a2 2 0 0 1 2 2v10H3z"></path></svg></span><h2 id="ws-materials-title">Υλικό εργαστηρίου</h2></div><p class="ws-lead">Βίντεο οδηγιών συναρμολόγησης και πληροφορίες για βίντεο παρουσίασης.</p><div class="ws-material-grid"><article class="ws-material ws-video"><div class="ws-material-head"><span aria-hidden="true" class="ws-material-icon"><svg viewbox="0 0 24 24"><path d="M6 3h8l4 4v14H6z"></path><path d="M14 3v5h5M9 12h6M9 16h6"></path></svg></span><h3>Οδηγίες κατασκευής (YouTube)</h3></div><p>Δες τις οδηγίες κατασκευής του κλαρκ σε βίντεο. Για πρόσβαση θα χρειαστείς τον κωδικό του εργαστηρίου.</p><button class="ws-action ws-video-unlock" id="forklift-instructions-open" type="button" aria-haspopup="dialog" aria-controls="forklift-instructions-lock"><svg aria-hidden="true" fill="none" height="18" stroke="currentColor" stroke-width="1.7" viewbox="0 0 24 24" width="18"><rect x="5" y="10" width="14" height="11" rx="2"></rect><path d="M8 10V7a4 4 0 0 1 8 0v3"></path></svg>Δες τις οδηγίες στο YouTube</button></article><article class="ws-material ws-video"><div class="ws-material-head"><span aria-hidden="true" class="ws-material-icon"><svg viewbox="0 0 24 24"><circle cx="12" cy="12" r="9"></circle><path d="m10 8 6 4-6 4z"></path></svg></span><h3>Βίντεο παρουσίασης</h3></div><p>Δες το Ανυψωτικό Μηχάνημα στο βίντεο παρουσίασης.</p><div class="ws-presentation-video"><iframe src="https://www.youtube-nocookie.com/embed/GYkSkYtcJts" title="Βίντεο παρουσίασης — Ανυψωτικό Μηχάνημα" loading="lazy" referrerpolicy="strict-origin-when-cross-origin" allow="accelerometer; autoplay; clipboard-write; encrypted-media; gyroscope; picture-in-picture; web-share" allowfullscreen></iframe></div><a class="ws-action" href="https://www.youtube.com/shorts/GYkSkYtcJts" target="_blank" rel="noopener noreferrer">Άνοιγμα στο YouTube ↗</a></article></div></section>
 <dialog class="ws-video-lock" id="forklift-instructions-lock" aria-labelledby="forklift-lock-title" aria-describedby="forklift-lock-help">
   <form id="forklift-lock-form" class="ws-video-lock-form" novalidate>

diff --git a/workshops/2026-2027/11-forklift-2/index.html b/workshops/2026-2027/11-forklift-2/index.html
@@ -85,10 +85,10 @@ body[data-equipment~="wedo2"] .ws-kicker::before{background:#20B35D;box-shadow:0
 <div class="ws-wrap">
 <header class="ws-topbar"><div class="ws-brand">EVAGELAK <b>EDU LAB</b></div><a class="ws-back" href="../../../index.html#workshops">← Όλες οι κατασκευές</a></header>
 <main class="ws-page">
-<div class="ws-heading"><div class="ws-kicker">LEGO WeDo 2.0 · 2026–2027</div><h1>Ανυψωτικό Μηχάνημα II</h1><p class="ws-intro">Η δεύτερη εκδοχή του κλαρκ στο EVAGELAK EDU LAB! Κατασκευάζουμε ένα ανυψωτικό μηχάνημα LEGO WeDo 2.0 που αξιοποιεί βραχίονες, γρανάζια και κινητήρα. Με τον προγραμματισμό δοκιμάζουμε αντίθετες φορές περιστροφής, αναμονή σήματος αισθητήρα και τρεις εντολές που ενεργοποιούνται με μηνύματα.</p></div>
+<div class="ws-heading"><div class="ws-kicker">LEGO WeDo 2.0 · 2026–2027</div><h1>Ανυψωτικό Μηχάνημα II</h1><p class="ws-intro">Η δεύτερη εκδοχή του κλαρκ στο EVAGELAK EDU LAB! Κατασκευάζουμε ένα ανυψωτικό μηχάνημα LEGO WeDo 2.0 που αξιοποιεί βραχίονες, γρανάζια και κινητήρα. Με τον προγραμματισμό δοκιμάζουμε αντίθετες φορές περιστροφής, αποστολή μηνυμάτων από τον αισθητήρα κλίσης και τρεις ακολουθίες που ενεργοποιούνται με μηνύματα.</p></div>
 <figure class="ws-stage"><img alt="Ανυψωτικό Μηχάνημα II LEGO WeDo 2.0, ανυψωτικός βραχίονας με δύο τροχούς ως φορτίο, κινητήρας, γρανάζια και αισθητήρας κλίσης" class="ws-photo" loading="eager" src="cover.webp"/><figcaption><span>Η ΚΑΤΑΣΚΕΥΗ</span><span>LEGO WeDo 2.0</span></figcaption></figure>
-<div class="ws-grid"><section class="ws-card ws-mission"><div class="ws-section-intro"><span aria-hidden="true" class="ws-icon"><svg viewbox="0 0 24 24"><path d="M5 21V4m0 1c3-2 5 2 9 0s6 0 6 0v11c-4-2-6 2-10 0s-5 0-5 0"></path></svg></span><h2>Η αποστολή μας</h2></div><p>Στη δεύτερη αποστολή μας κατασκευάζουμε ένα ανυψωτικό όχημα με βραχίονες που συγκρατούν ένα φορτίο. Παρατηρούμε τον συνδυασμό δοκών, οδοντωτών τροχών και κινητήρα, ώστε να κατανοήσουμε πώς η περιστροφή μεταδίδεται στον μηχανισμό. Στο πρόγραμμα ρυθμίζουμε την ισχύ του κινητήρα στο 8 και τον σταματάμε. Χρησιμοποιούμε επανάληψη με αναμονή σήματος κίνησης του αισθητήρα κλίσης. Τρεις ανεξάρτητες ακολουθίες ενεργοποιούνται όταν φτάσουν τα μηνύματα 0, 3 και 6: σταμάτημα, περιστροφή προς τη μία φορά και περιστροφή προς την αντίθετη. Δοκιμάζουμε τι συμβαίνει κάθε φορά στον μηχανισμό και πώς μπορούμε να τον ελέγχουμε με ακρίβεια.</p></section><section class="ws-card"><div class="ws-section-intro"><span aria-hidden="true" class="ws-icon"><svg viewbox="0 0 24 24"><circle cx="12" cy="12" r="9"></circle><circle cx="12" cy="12" r="5"></circle><circle cx="12" cy="12" r="1"></circle></svg></span><h2>Τι μάθαμε</h2></div><ul><li><span>Διακρίναμε το ανυψωτικό όχημα από το φορτίο που μεταφέρει και παρατηρήσαμε τις περόνες του.</span></li><li><span>Συνδυάσαμε δοκούς, άξονες και γρανάζια για να φτιάξουμε έναν μηχανισμό ανύψωσης.</span></li><li><span>Είδαμε πώς ο κινητήρας μεταδίδει την περιστροφή σε έναν μηχανισμό.</span></li><li><span>Ρυθμίσαμε την ισχύ του κινητήρα στο 8 και χρησιμοποιήσαμε την εντολή «Σταμάτημα».</span></li><li><span>Αναγνωρίσαμε την «Επανάληψη» και την «Αναμονή» με σήμα από αισθητήρα κλίσης.</span></li><li><span>Διακρίναμε τις ακολουθίες «Ξεκίνημα» και «Ξεκίνημα με μήνυμα».</span></li><li><span>Συνδέσαμε το μήνυμα 0 με το σταμάτημα του κινητήρα.</span></li><li><span>Δοκιμάσαμε τα μηνύματα 3 και 6 για αντίθετες κατευθύνσεις περιστροφής.</span></li></ul></section></div>
-<section aria-labelledby="ws-program-title" class="ws-panel"><div class="ws-section-intro"><span aria-hidden="true" class="ws-icon"><svg viewbox="0 0 24 24"><rect height="16" rx="2" width="18" x="3" y="4"></rect><path d="m9 9-3 3 3 3m6-6 3 3-3 3"></path></svg></span><h2 id="ws-program-title">Προγραμματισμός</h2></div><p class="ws-lead">Η αρχική ακολουθία ορίζει <strong>ισχύ 8</strong> και δίνει εντολή σταματήματος. Μέσα στην <strong>«Επανάληψη»</strong> περιμένει σήμα από τον αισθητήρα κλίσης. Κάτω από αυτήν υπάρχουν τρεις διαφορετικές ακολουθίες: <strong>μήνυμα 0 → Σταμάτημα</strong>, <strong>μήνυμα 3 → περιστροφή δεξιά</strong> και <strong>μήνυμα 6 → περιστροφή αριστερά</strong>.</p><div class="ws-program-area"><div class="ws-program-label"><i aria-hidden="true"></i> LEGO WeDo 2.0 · ΠΡΟΓΡΑΜΜΑ</div><a aria-label="Προβολή του προγράμματος σε μεγάλο μέγεθος" href="program.webp" rel="noopener noreferrer" target="_blank"><img alt="Πραγματικό πρόγραμμα LEGO WeDo 2.0: ισχύς 8, σταμάτημα, επανάληψη με αναμονή αισθητήρα και εντολές μηνυμάτων 0, 3, 6" class="ws-program" height="941" loading="eager" src="program.webp" width="1672"/></a></div><a class="ws-program-link" href="program.webp" rel="noopener noreferrer" target="_blank"><svg aria-hidden="true" fill="none" height="18" stroke="currentColor" stroke-width="1.5" viewbox="0 0 20 20" width="18"><circle cx="9" cy="9" r="5"></circle><path d="m13 13 4 4M6 9h6M9 6v6"></path></svg>Μεγέθυνση προγράμματος ↗</a></section>
+<div class="ws-grid"><section class="ws-card ws-mission"><div class="ws-section-intro"><span aria-hidden="true" class="ws-icon"><svg viewbox="0 0 24 24"><path d="M5 21V4m0 1c3-2 5 2 9 0s6 0 6 0v11c-4-2-6 2-10 0s-5 0-5 0"></path></svg></span><h2>Η αποστολή μας</h2></div><p>Στη δεύτερη αποστολή μας κατασκευάζουμε ένα ανυψωτικό όχημα με βραχίονες που συγκρατούν ένα φορτίο. Παρατηρούμε τον συνδυασμό δοκών, οδοντωτών τροχών και κινητήρα, ώστε να κατανοήσουμε πώς η περιστροφή μεταδίδεται στον μηχανισμό. Στο πρόγραμμα ρυθμίζουμε την ισχύ του κινητήρα στο 8 και τον σταματάμε. Μέσα στην επανάληψη στέλνουμε μήνυμα με είσοδο την «Κίνηση πάνω-κάτω» του αισθητήρα κλίσης. Τρεις ανεξάρτητες ακολουθίες ενεργοποιούνται όταν φτάσουν τα μηνύματα 0, 3 και 9: σταμάτημα, περιστροφή προς τη μία φορά και περιστροφή προς την αντίθετη. Δοκιμάζουμε τι συμβαίνει κάθε φορά στον μηχανισμό και πώς μπορούμε να τον ελέγχουμε με ακρίβεια.</p></section><section class="ws-card"><div class="ws-section-intro"><span aria-hidden="true" class="ws-icon"><svg viewbox="0 0 24 24"><circle cx="12" cy="12" r="9"></circle><circle cx="12" cy="12" r="5"></circle><circle cx="12" cy="12" r="1"></circle></svg></span><h2>Τι μάθαμε</h2></div><ul><li><span>Διακρίναμε το ανυψωτικό όχημα από το φορτίο που μεταφέρει και παρατηρήσαμε τις περόνες του.</span></li><li><span>Συνδυάσαμε δοκούς, άξονες και γρανάζια για να φτιάξουμε έναν μηχανισμό ανύψωσης.</span></li><li><span>Είδαμε πώς ο κινητήρας μεταδίδει την περιστροφή σε έναν μηχανισμό.</span></li><li><span>Ρυθμίσαμε την ισχύ του κινητήρα στο 8 και χρησιμοποιήσαμε την εντολή «Σταμάτημα».</span></li><li><span>Αναγνωρίσαμε την «Επανάληψη» και την «Αποστολή μηνύματος» με είσοδο από τον αισθητήρα κλίσης.</span></li><li><span>Διακρίναμε τις ακολουθίες «Ξεκίνημα» και «Ξεκίνημα με μήνυμα».</span></li><li><span>Συνδέσαμε το μήνυμα 0 με το σταμάτημα του κινητήρα.</span></li><li><span>Δοκιμάσαμε τα μηνύματα 3 και 9 για αντίθετες κατευθύνσεις περιστροφής.</span></li></ul></section></div>
+<section aria-labelledby="ws-program-title" class="ws-panel"><div class="ws-section-intro"><span aria-hidden="true" class="ws-icon"><svg viewbox="0 0 24 24"><rect height="16" rx="2" width="18" x="3" y="4"></rect><path d="m9 9-3 3 3 3m6-6 3 3-3 3"></path></svg></span><h2 id="ws-program-title">Προγραμματισμός</h2></div><p class="ws-lead">Η αρχική ακολουθία ορίζει <strong>ισχύ 8</strong> και δίνει εντολή σταματήματος. Μέσα στην <strong>«Επανάληψη»</strong> η <strong>«Αποστολή μηνύματος»</strong> μεταφέρει δεδομένα από τον αισθητήρα κλίσης («Κίνηση πάνω-κάτω»). Κάτω από αυτήν υπάρχουν τρεις διαφορετικές ακολουθίες: <strong>μήνυμα 0 → Σταμάτημα</strong>, <strong>μήνυμα 3 → περιστροφή δεξιά</strong> και <strong>μήνυμα 9 → περιστροφή αριστερά</strong>.</p><div class="ws-program-area"><div class="ws-program-label"><i aria-hidden="true"></i> LEGO WeDo 2.0 · ΠΡΟΓΡΑΜΜΑ</div><a aria-label="Προβολή του προγράμματος σε μεγάλο μέγεθος" href="program.webp?v=20261125-msg9" rel="noopener noreferrer" target="_blank"><img alt="Πραγματικό πρόγραμμα LEGO WeDo 2.0: ισχύς 8, σταμάτημα, επανάληψη με αποστολή μηνύματος από αισθητήρα κλίσης και εντολές μηνυμάτων 0, 3, 9" class="ws-program" height="941" loading="eager" src="program.webp?v=20261125-msg9" width="1672"/></a></div><a class="ws-program-link" href="program.webp?v=20261125-msg9" rel="noopener noreferrer" target="_blank"><svg aria-hidden="true" fill="none" height="18" stroke="currentColor" stroke-width="1.5" viewbox="0 0 20 20" width="18"><circle cx="9" cy="9" r="5"></circle><path d="m13 13 4 4M6 9h6M9 6v6"></path></svg>Μεγέθυνση προγράμματος ↗</a></section>
 <section aria-labelledby="ws-materials-title" class="ws-panel ws-materials"><div class="ws-section-intro"><span aria-hidden="true" class="ws-icon"><svg viewbox="0 0 24 24"><path d="M3 7a2 2 0 0 1 2-2h5l2 2h7a2 2 0 0 1 2 2v10H3z"></path></svg></span><h2 id="ws-materials-title">Υλικό εργαστηρίου</h2></div><p class="ws-lead">Βίντεο οδηγιών συναρμολόγησης με πρόσβαση μέσω κωδικού του εργαστηρίου.</p><div class="ws-material-grid"><article class="ws-material ws-video"><div class="ws-material-head"><span aria-hidden="true" class="ws-material-icon"><svg viewbox="0 0 24 24"><path d="M6 3h8l4 4v14H6z"></path><path d="M14 3v5h5M9 12h6M9 16h6"></path></svg></span><h3>Οδηγίες κατασκευής (YouTube)</h3></div><p>Παρακολούθησε το βίντεο για να κατασκευάσεις το Ανυψωτικό Μηχάνημα II. Για να ανοίξει, πληκτρολόγησε τον κωδικό του εργαστηρίου.</p><button aria-controls="forklift2-instructions-lock" aria-haspopup="dialog" class="ws-action ws-video-unlock" id="forklift2-instructions-open" type="button"><svg aria-hidden="true" fill="none" height="18" stroke="currentColor" stroke-width="1.7" viewbox="0 0 24 24" width="18"><rect height="11" rx="2" width="14" x="5" y="10"></rect><path d="M8 10V7a4 4 0 0 1 8 0v3"></path></svg>Δες τις οδηγίες στο YouTube</button></article><article class="ws-material ws-video"><div class="ws-material-head"><span aria-hidden="true" class="ws-material-icon"><svg viewbox="0 0 24 24"><circle cx="12" cy="12" r="9"></circle><path d="m10 8 6 4-6 4z"></path></svg></span><h3>Βίντεο παρουσίασης</h3></div><p>Το βίντεο παρουσίασης θα προστεθεί αργότερα.</p><div aria-label="Δεν υπάρχει ακόμη διαθέσιμο βίντεο" class="ws-video-pending">Διαθέσιμο σύντομα</div></article></div></section>
 <dialog aria-describedby="forklift2-lock-help" aria-labelledby="forklift2-lock-title" class="ws-video-lock" id="forklift2-instructions-lock">
 <form class="ws-video-lock-form" id="forklift2-lock-form" novalidate="">
